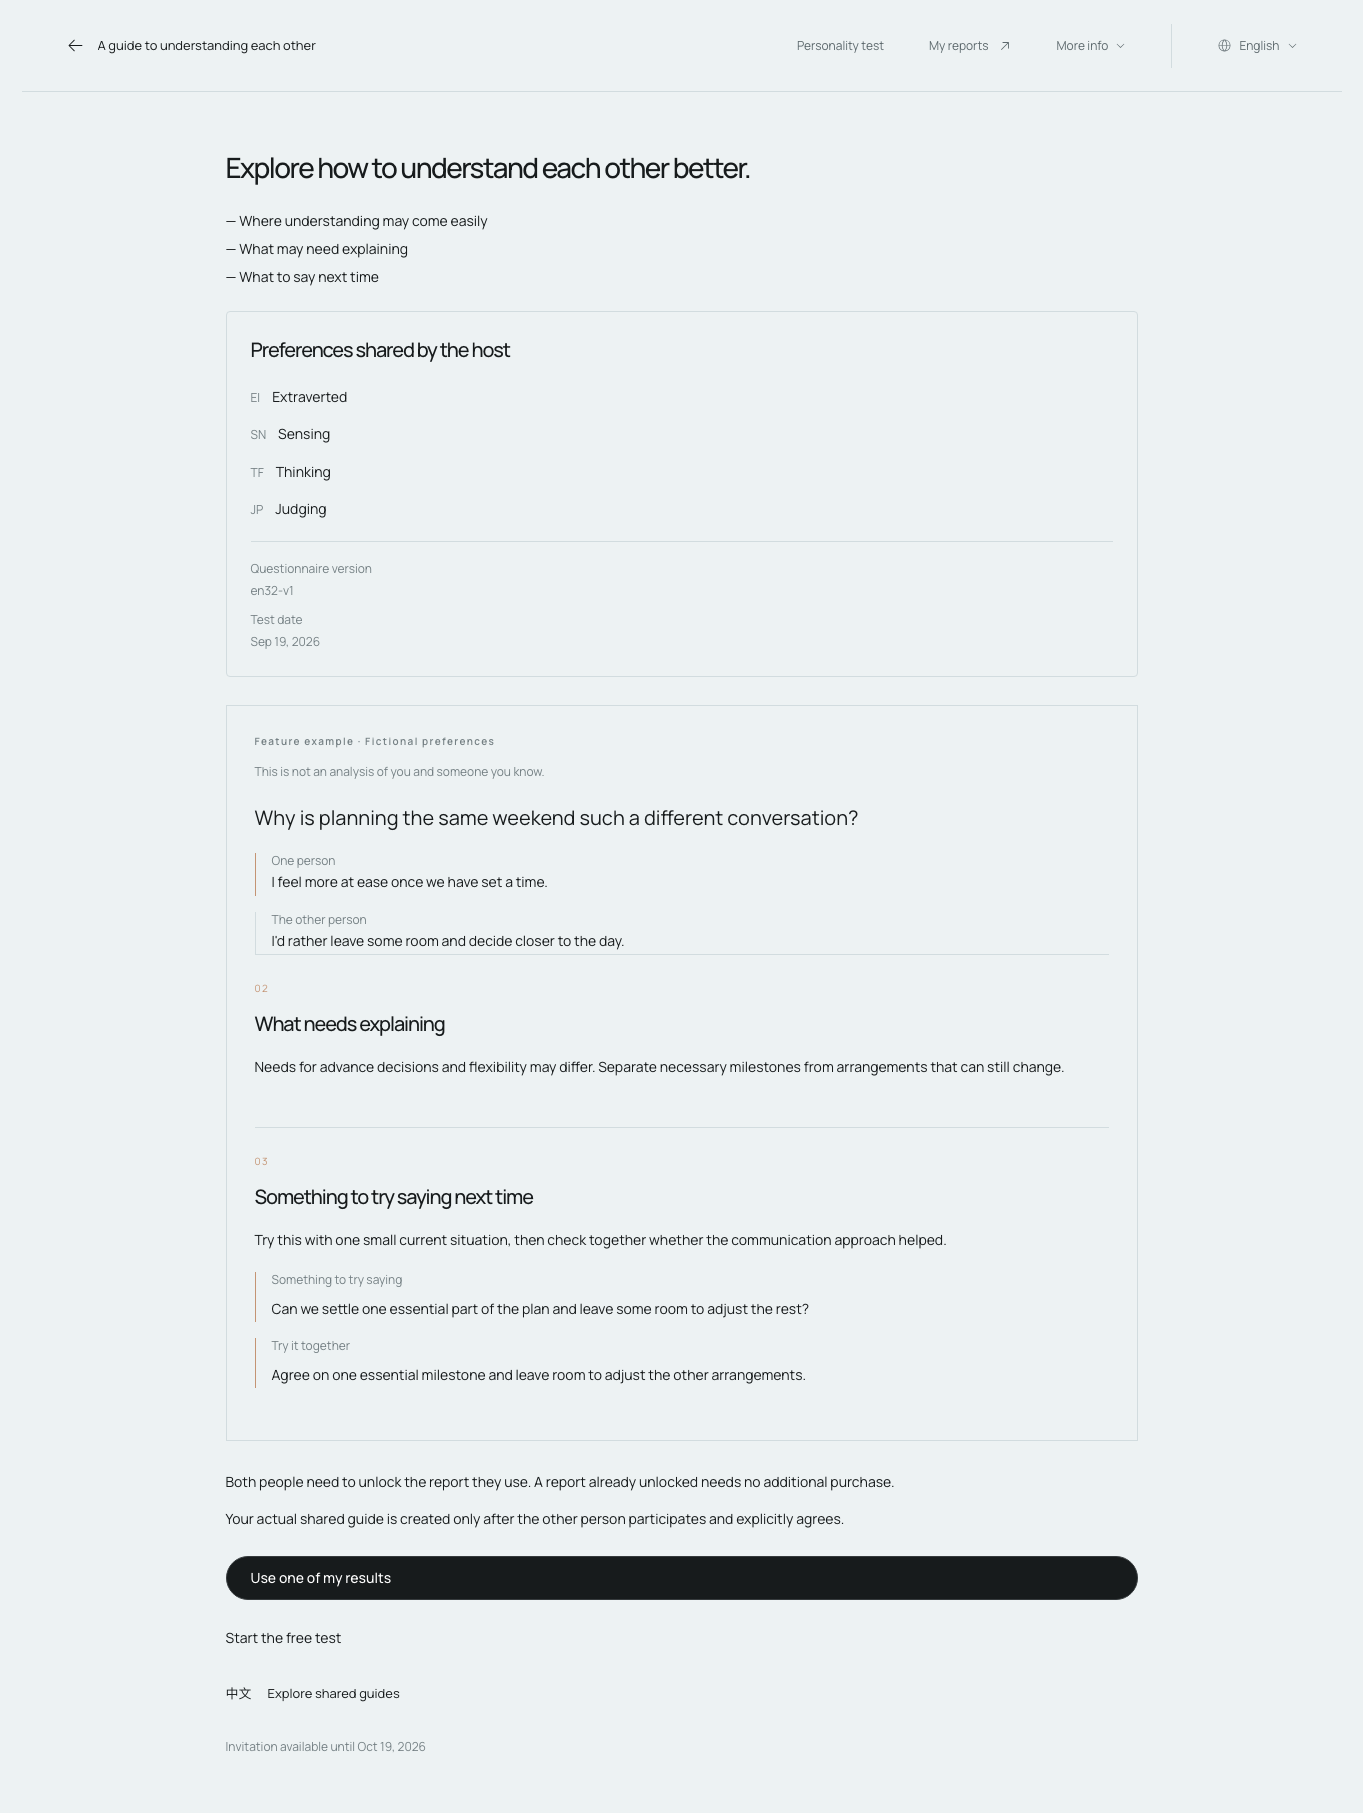
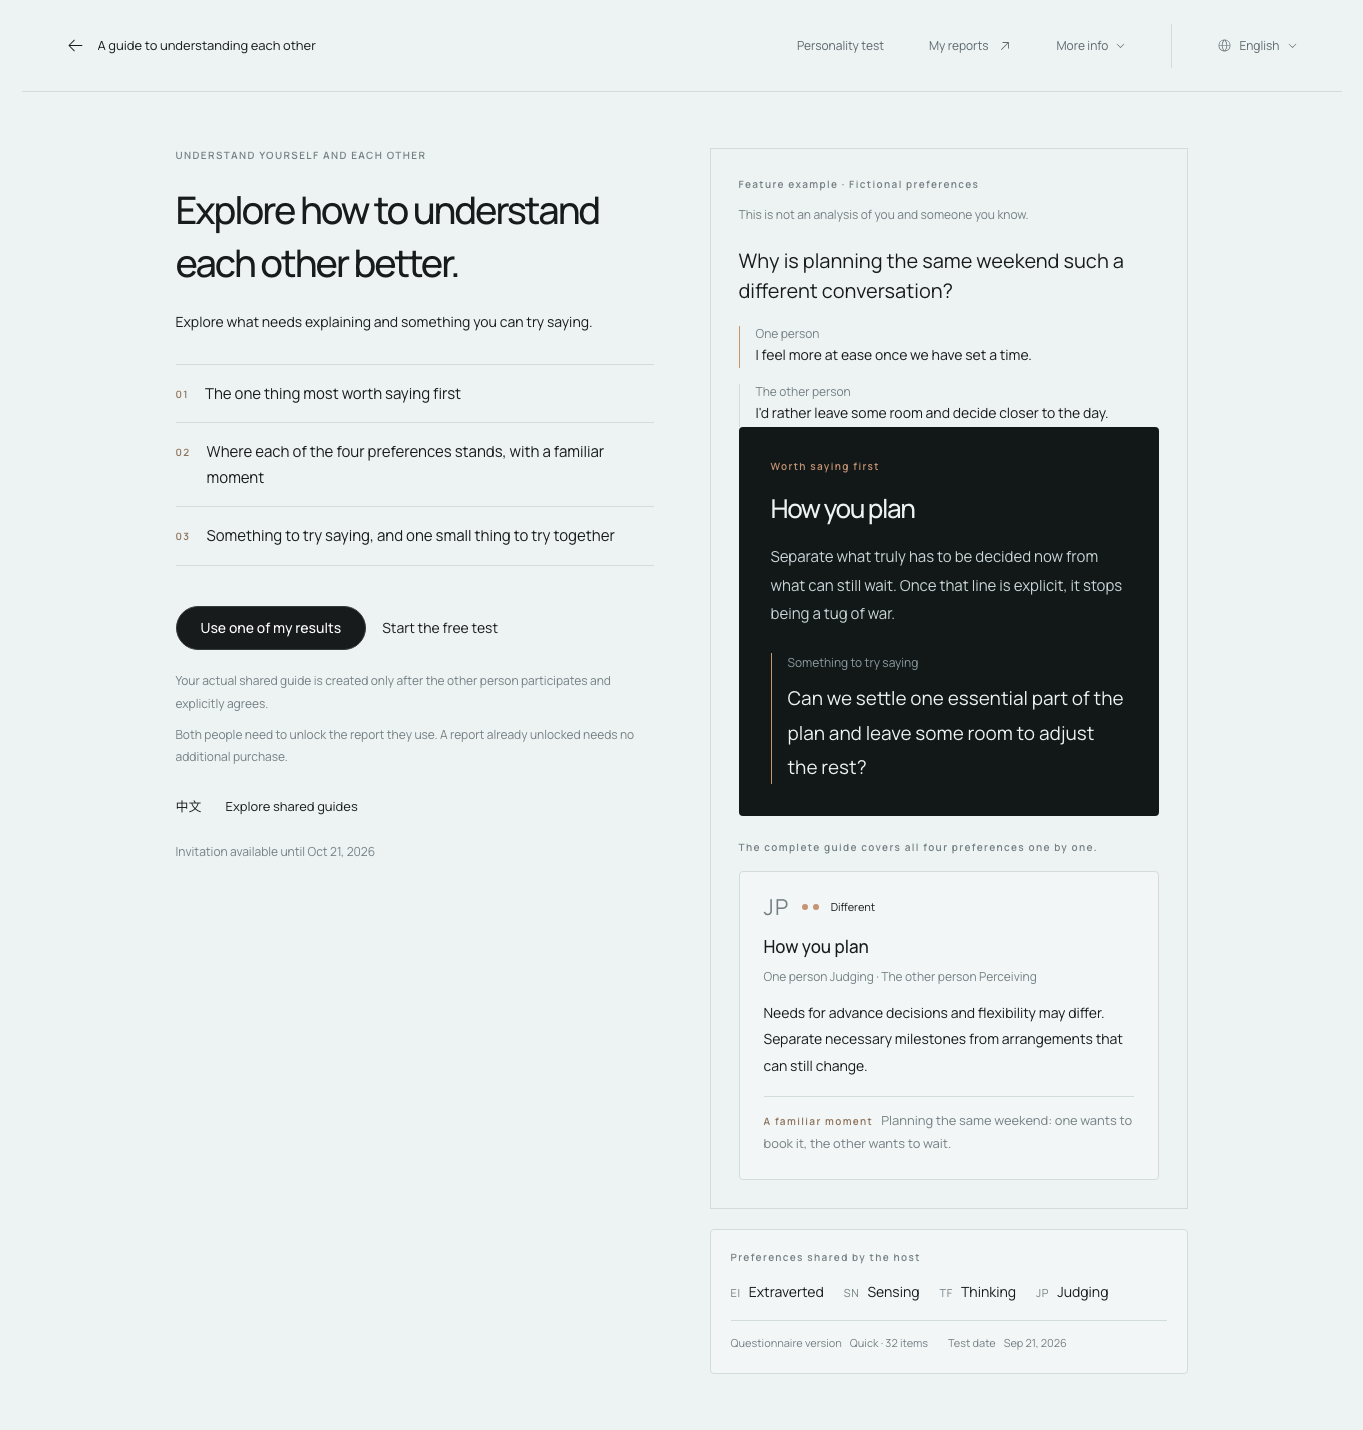
Make a forwarded invitation look like one
/t/[token] is where someone's friend lands from a chat app, and it opened
with a bare dash list of three output titles over a card of four raw
category labels, under a link preview that was the generic home image.

The page now leads with what the guide is: the eyebrow, the heading, one
line of summary and the three outputs as a numbered list, then the
preview with its dark emphasis and the host's agreed scope, then a single
primary action. On desktop the pitch and the decision share a column
while the proof sits beside them, and row 1 hugs the pitch so the spanning
column cannot open a gap under the outputs.

The invitation also gets its own OG card. It renders invitation copy
only - link previews are fetched and cached by third-party servers, so no
host categories, dates or tokens belong in that image.

The three promised outputs were still describing the v2 sections, so they
now say what a v3 reading actually delivers, and the OG font subset reads
the pairing message modules that copy lives in.

diff --git a/src/app/[lang]/t/[token]/page.tsx b/src/app/[lang]/t/[token]/page.tsx
@@ -14,21 +14,76 @@ import { pairingMessages } from "@/lib/i18n/messages/pairing";
 import { pairingUiMessages } from "@/lib/i18n/messages/pairing-ui";
 import { appUrl } from "@/lib/env";
 import { siteCopy } from "@/lib/site";
+
 type Props = { params: Promise<{ token: string }> };
+
 export async function generateMetadata({ params }: Props): Promise<Metadata> {
-  const { token } = await params; const invitation = await getPublicInvitation(token); const locale = invitation?.locale ?? await getLocale(); const m = compareMessages[locale]; const description = pairingMessages[locale].summary + " " + pairingMessages[locale].delayedGeneration;
+  const { token } = await params;
+  const invitation = await getPublicInvitation(token);
+  const locale = invitation?.locale ?? await getLocale();
+  const m = compareMessages[locale];
+  const description = pairingMessages[locale].summary + " " + pairingMessages[locale].delayedGeneration;
   if (!invitation) return { title: m.unavailable, robots: { index: false, follow: false }, referrer: "no-referrer", openGraph: null, twitter: null };
-  const url = appUrl() + href(locale, `/t/${token}`); const image = appUrl() + href(locale, "/opengraph-image");
+  const url = appUrl() + href(locale, `/t/${token}`);
+  // The invitation's own card, so a forwarded link shows what it is. It carries no host data.
+  const image = `${url}/opengraph-image`;
   // Absolute for the same reason as the share card: the invitation carries its own language.
-  return { title: { absolute: `${m.invitationHeading} · ${siteCopy(locale).name}` }, description, robots: { index: false, follow: false }, referrer: "no-referrer", alternates: { canonical: url }, openGraph: { title: m.invitationHeading, description, url, siteName: "mirror", type: "website", locale: locale === "en" ? "en_US" : "zh_CN", images: [{ url: image, width: 1200, height: 630, alt: "mirror" }] }, twitter: { card: "summary_large_image", title: m.invitationHeading, description, images: [image] } };
+  return {
+    title: { absolute: `${m.invitationHeading} · ${siteCopy(locale).name}` }, description,
+    robots: { index: false, follow: false }, referrer: "no-referrer", alternates: { canonical: url },
+    openGraph: { title: m.invitationHeading, description, url, siteName: "mirror", type: "website", locale: locale === "en" ? "en_US" : "zh_CN", images: [{ url: image, width: 1200, height: 630, alt: m.invitationHeading }] },
+    twitter: { card: "summary_large_image", title: m.invitationHeading, description, images: [image] },
+  };
 }
+
 export default async function InvitationPage({ params }: Props) {
-  const { token } = await params; const locale = await getLocale(); const visitor = await getVisitorId();
+  const { token } = await params;
+  const locale = await getLocale();
+  const visitor = await getVisitorId();
   const existing = visitor ? await findOwnedComparisonForInvitation(token, visitor) : null;
   if (existing) redirect(existing.url);
   const invitation = await getPublicInvitation(token);
   if (!invitation) return <CompareUnavailable locale={locale} legacy={await getInvitationState(token) === "legacy"} />;
   if (locale !== invitation.locale) redirect(href(invitation.locale, `/t/${token}`));
-  const m = compareMessages[locale]; const ui = pairingUiMessages[locale]; const p = pairingMessages[locale]; const choices = visitor ? await listComparisonResults(visitor) : [];
-  return <><AppHeader variant="page" title={p.title} backHref={href(locale, "/")} /><main data-share-static className="mx-auto max-w-[960px] px-6 py-8 md:py-14"><h1 className="text-[28px] leading-[1.4]">{m.invitationHeading}</h1><ul className="my-6 space-y-2 text-sm">{ui.outputs.map(text => <li key={text}>— {text}</li>)}</ul><div data-share-card><PreferenceSummary snapshot={invitation.snapshot} locale={locale} title={ui.hostScope} /></div><div className="mt-7"><PairingExample locale={locale} compact /></div><section className="mt-7">{choices.length > 0 && <p className="text-sm leading-[1.8]">{p.feeRule}</p>}<p className="mt-3 text-sm leading-[1.8]">{ui.noConsentYet}</p><div className="mt-6 flex flex-wrap items-center gap-4">{choices.length > 0 && <a href={href(locale, `/t/${token}/join`)} className="pill min-h-11">{m.chooseExisting}</a>}<ShareQuizLink token={token} surface="invitation" locale={locale} href={href(locale, `/quiz?compare=${token}`)} className={`${choices.length ? "text-link" : "pill"} inline-flex min-h-11 text-sm`}>{ui.start}</ShareQuizLink>{!choices.length && <a href={href(locale, `/t/${token}/join`)} className="text-link min-h-11 text-sm">{m.chooseExisting}</a>}</div><div className="mt-3 flex flex-wrap gap-4 text-xs"><a className="text-link min-h-11" href={href(locale === "zh" ? "en" : "zh", `/quiz?compare=${token}`)}>{locale === "zh" ? "English" : "中文"}</a><a className="text-link min-h-11" href={href(locale, "/pairing")}>{ui.learn}</a></div><p className="mt-5 text-xs leading-[1.8] text-mist">{m.invitationEnd} <time dateTime={invitation.expiresAt}>{new Intl.DateTimeFormat(locale === "zh" ? "zh-CN" : "en", { dateStyle: "medium", timeZone: "UTC" }).format(new Date(invitation.expiresAt))}</time></p></section><ShareVisit token={token} locale={locale} surface="invitation" /></main></>;
+  const m = compareMessages[locale];
+  const ui = pairingUiMessages[locale];
+  const p = pairingMessages[locale];
+  const choices = visitor ? await listComparisonResults(visitor) : [];
+  const hasResults = choices.length > 0;
+  const joinHref = href(locale, `/t/${token}/join`);
+  const quizHref = href(locale, `/quiz?compare=${token}`);
+  const startQuiz = <ShareQuizLink token={token} surface="invitation" locale={locale} href={quizHref} className={hasResults ? "text-link min-h-11 shrink-0 text-sm" : "pill min-h-11 md:w-auto"}>{ui.start}</ShareQuizLink>;
+  const useExisting = <a href={joinHref} className={hasResults ? "pill min-h-11 md:w-auto" : "text-link min-h-11 shrink-0 text-sm"}>{m.chooseExisting}</a>;
+  return <>
+    <AppHeader variant="page" title={p.title} backHref={href(locale, "/")} />
+    <main data-share-static className="mx-auto max-w-[1060px] px-6 py-8 md:py-14">
+      <div className="grid gap-9 md:grid-cols-2 md:gap-x-14 md:gap-y-10 md:[grid-template-rows:auto_1fr]">
+        <section className="md:col-start-1 md:row-start-1">
+          <p className="eyebrow text-mist">{ui.introEyebrow}</p>
+          <h1 className="mt-5 text-[29px] leading-[1.4] md:text-[38px]">{m.invitationHeading}</h1>
+          <p className="mt-5 text-sm leading-[1.9]">{p.summary}</p>
+          <ol className="mt-7 border-y border-line">{ui.outputs.map((text, index) => <li key={text} className={`flex gap-4 py-4 ${index ? "border-t border-line" : ""}`}>
+            <span aria-hidden="true" className="eyebrow pt-1.5 text-[#8d7259]">{`0${index + 1}`}</span>
+            <span className="text-[15px] leading-[1.7]">{text}</span>
+          </li>)}</ol>
+        </section>
+        {/* The preview and the host's agreed scope: the proof, above the decision on a phone. */}
+        <div className="md:col-start-2 md:row-span-2 md:row-start-1">
+          <PairingExample locale={locale} />
+          <div data-share-card className="mt-5"><PreferenceSummary snapshot={invitation.snapshot} locale={locale} title={ui.hostScope} /></div>
+        </div>
+        <section className="md:col-start-1 md:row-start-2">
+          <div className="flex flex-col gap-4 md:flex-row md:items-center">{hasResults ? <>{useExisting}{startQuiz}</> : <>{startQuiz}{useExisting}</>}</div>
+          <p className="mt-5 text-xs leading-[1.9] text-mist">{ui.noConsentYet}</p>
+          {hasResults && <p className="mt-2 text-xs leading-[1.9] text-mist">{p.feeRule}</p>}
+          <div className="mt-4 flex flex-wrap gap-x-6 text-xs">
+            <a className="text-link min-h-11" href={href(locale === "zh" ? "en" : "zh", `/quiz?compare=${token}`)}>{locale === "zh" ? "English" : "中文"}</a>
+            <a className="text-link min-h-11" href={href(locale, "/pairing")}>{ui.learn}</a>
+          </div>
+          <p className="mt-3 text-xs leading-[1.8] text-mist">{m.invitationEnd} <time dateTime={invitation.expiresAt}>{new Intl.DateTimeFormat(locale === "zh" ? "zh-CN" : "en", { dateStyle: "medium", timeZone: "UTC" }).format(new Date(invitation.expiresAt))}</time></p>
+        </section>
+      </div>
+      <ShareVisit token={token} locale={locale} surface="invitation" />
+    </main>
+  </>;
 }

diff --git a/src/lib/og/invitation-image.tsx b/src/lib/og/invitation-image.tsx
@@ -1,0 +1,40 @@
+import { ImageResponse } from "next/og";
+import { BrandLogo, brandLogoWidth } from "@/components/brand/brand-logo";
+import type { Locale } from "@/lib/i18n/locale";
+import { compareMessages } from "@/lib/i18n/messages/compare";
+import { pairingMessages } from "@/lib/i18n/messages/pairing";
+import { pairingUiMessages } from "@/lib/i18n/messages/pairing-ui";
+import { shareMessages } from "@/lib/i18n/messages/share";
+import { OG_FONT_FAMILY, ogFonts } from "@/lib/og/fonts";
+
+/**
+ * The card a forwarded invitation shows in a chat app. It carries no host data: link previews are
+ * fetched and cached by third-party servers, so nothing personal belongs in this image.
+ */
+export async function renderInvitationImage(locale: Locale) {
+  const m = compareMessages[locale];
+  const p = pairingMessages[locale];
+  const ui = pairingUiMessages[locale];
+  const en = locale === "en";
+  const fonts = await ogFonts();
+  return new ImageResponse(
+    <div style={{ display: "flex", flexDirection: "column", width: "100%", height: "100%", padding: 60, background: "#edf2f3", color: "#171b1c", fontFamily: OG_FONT_FAMILY }}>
+      <div style={{ display: "flex", height: 44, flexShrink: 0 }}>{BrandLogo({ locale, width: brandLogoWidth(locale, 194) })}</div>
+      <div style={{ display: "flex", flex: 1, marginTop: 34, gap: 48 }}>
+        <div style={{ display: "flex", flexDirection: "column", width: 560, flexShrink: 0 }}>
+          <div style={{ display: "flex", fontSize: en ? 40 : 46, fontWeight: 500, lineHeight: 1.3 }}>{m.invitationHeading}</div>
+          <div style={{ display: "flex", marginTop: 20, fontSize: 20, lineHeight: 1.6, color: "#627176" }}>{p.summary}</div>
+          <div style={{ display: "flex", marginTop: "auto", fontSize: 16, lineHeight: 1.6, color: "#627176" }}>{shareMessages[locale].testNote}</div>
+        </div>
+        <div style={{ display: "flex", flexDirection: "column", flex: 1 }}>
+          {ui.outputs.map((text, index) => <div key={text} style={{ display: "flex", flex: 1, alignItems: "center", gap: 20, borderTop: "1px solid #ccd5d7" }}>
+            <div style={{ display: "flex", fontSize: 18, color: "#c49473", width: 30, flexShrink: 0 }}>{`0${index + 1}`}</div>
+            <div style={{ display: "flex", flex: 1, fontSize: en ? 24 : 28, lineHeight: 1.5 }}>{text}</div>
+          </div>)}
+          <div style={{ display: "flex", alignItems: "center", height: 56, flexShrink: 0, borderTop: "1px solid #ccd5d7", fontSize: 17, lineHeight: 1.5, color: "#627176" }}>{p.delayedGeneration}</div>
+        </div>
+      </div>
+    </div>,
+    { width: 1200, height: 630, fonts, headers: { "Cache-Control": "private, no-store", "X-Robots-Tag": "noindex, nofollow" } },
+  );
+}

diff --git a/src/lib/i18n/messages/pairing-ui.ts b/src/lib/i18n/messages/pairing-ui.ts
@@ -27,7 +27,7 @@ const zh = {
   priceTitle: "一次解锁，包含两部分",
   price: (amount: string, currency: string) => `个人完整报告＋本次结果的配对资格 · ${currency}${amount} / 次`,
   priceNote: "无订阅、无自动续费。每个人购买自己的报告；已解锁的对应报告无需再买。",
-  outputs: ["可能容易理解的地方", "需要说清楚的地方", "下次可以怎么说"],
+  outputs: ["这次最值得先说清楚的一件事", "四个维度各自的情况，和常见的一幕", "一句可以试着说的话，和一个一起试的小练习"],
   scope: "公开范围",
   hostScope: "发起人公开的倾向",
   ownScope: "我将向发起人展示的倾向",
@@ -87,7 +87,7 @@ const en: typeof zh = {
   priceTitle: "One purchase, two parts",
   price: (amount: string, currency: string) => `Your full report + pairing access for this result · ${currency}${amount} once`,
   priceNote: "No subscription or auto-renewal. Each person purchases their own report; a report already unlocked does not need another purchase.",
-  outputs: ["Where understanding may come easily", "What may need explaining", "What to say next time"],
+  outputs: ["The one thing most worth saying first", "Where each of the four preferences stands, with a familiar moment", "Something to try saying, and one small thing to try together"],
   scope: "Public information",
   hostScope: "Preferences shared by the host",
   ownScope: "Preferences I will share with the host",

diff --git a/src/app/[lang]/t/[token]/opengraph-image/route.ts b/src/app/[lang]/t/[token]/opengraph-image/route.ts
@@ -1,0 +1,17 @@
+import { connection } from "next/server";
+import { renderInvitationImage } from "@/lib/og/invitation-image";
+import { sessionSecret } from "@/lib/env";
+import { getPublicInvitation } from "@/lib/comparisons";
+import { shareNoStore, consumeShareRate } from "@/lib/share-request";
+import { shareIpBucket } from "@/lib/share-policy";
+
+/** An invitation that is closed, withdrawn or expired has no preview card. */
+export async function GET(request: Request, { params }: { params: Promise<{ token: string }> }) {
+  await connection();
+  const { token } = await params;
+  try { await consumeShareRate(shareIpBucket(request, sessionSecret()), 120, 60); }
+  catch { return new Response(null, { status: 429, headers: { ...shareNoStore, "Retry-After": "60" } }); }
+  const invitation = await getPublicInvitation(token);
+  if (!invitation) return new Response(null, { status: 404, headers: shareNoStore });
+  return renderInvitationImage(invitation.locale);
+}
